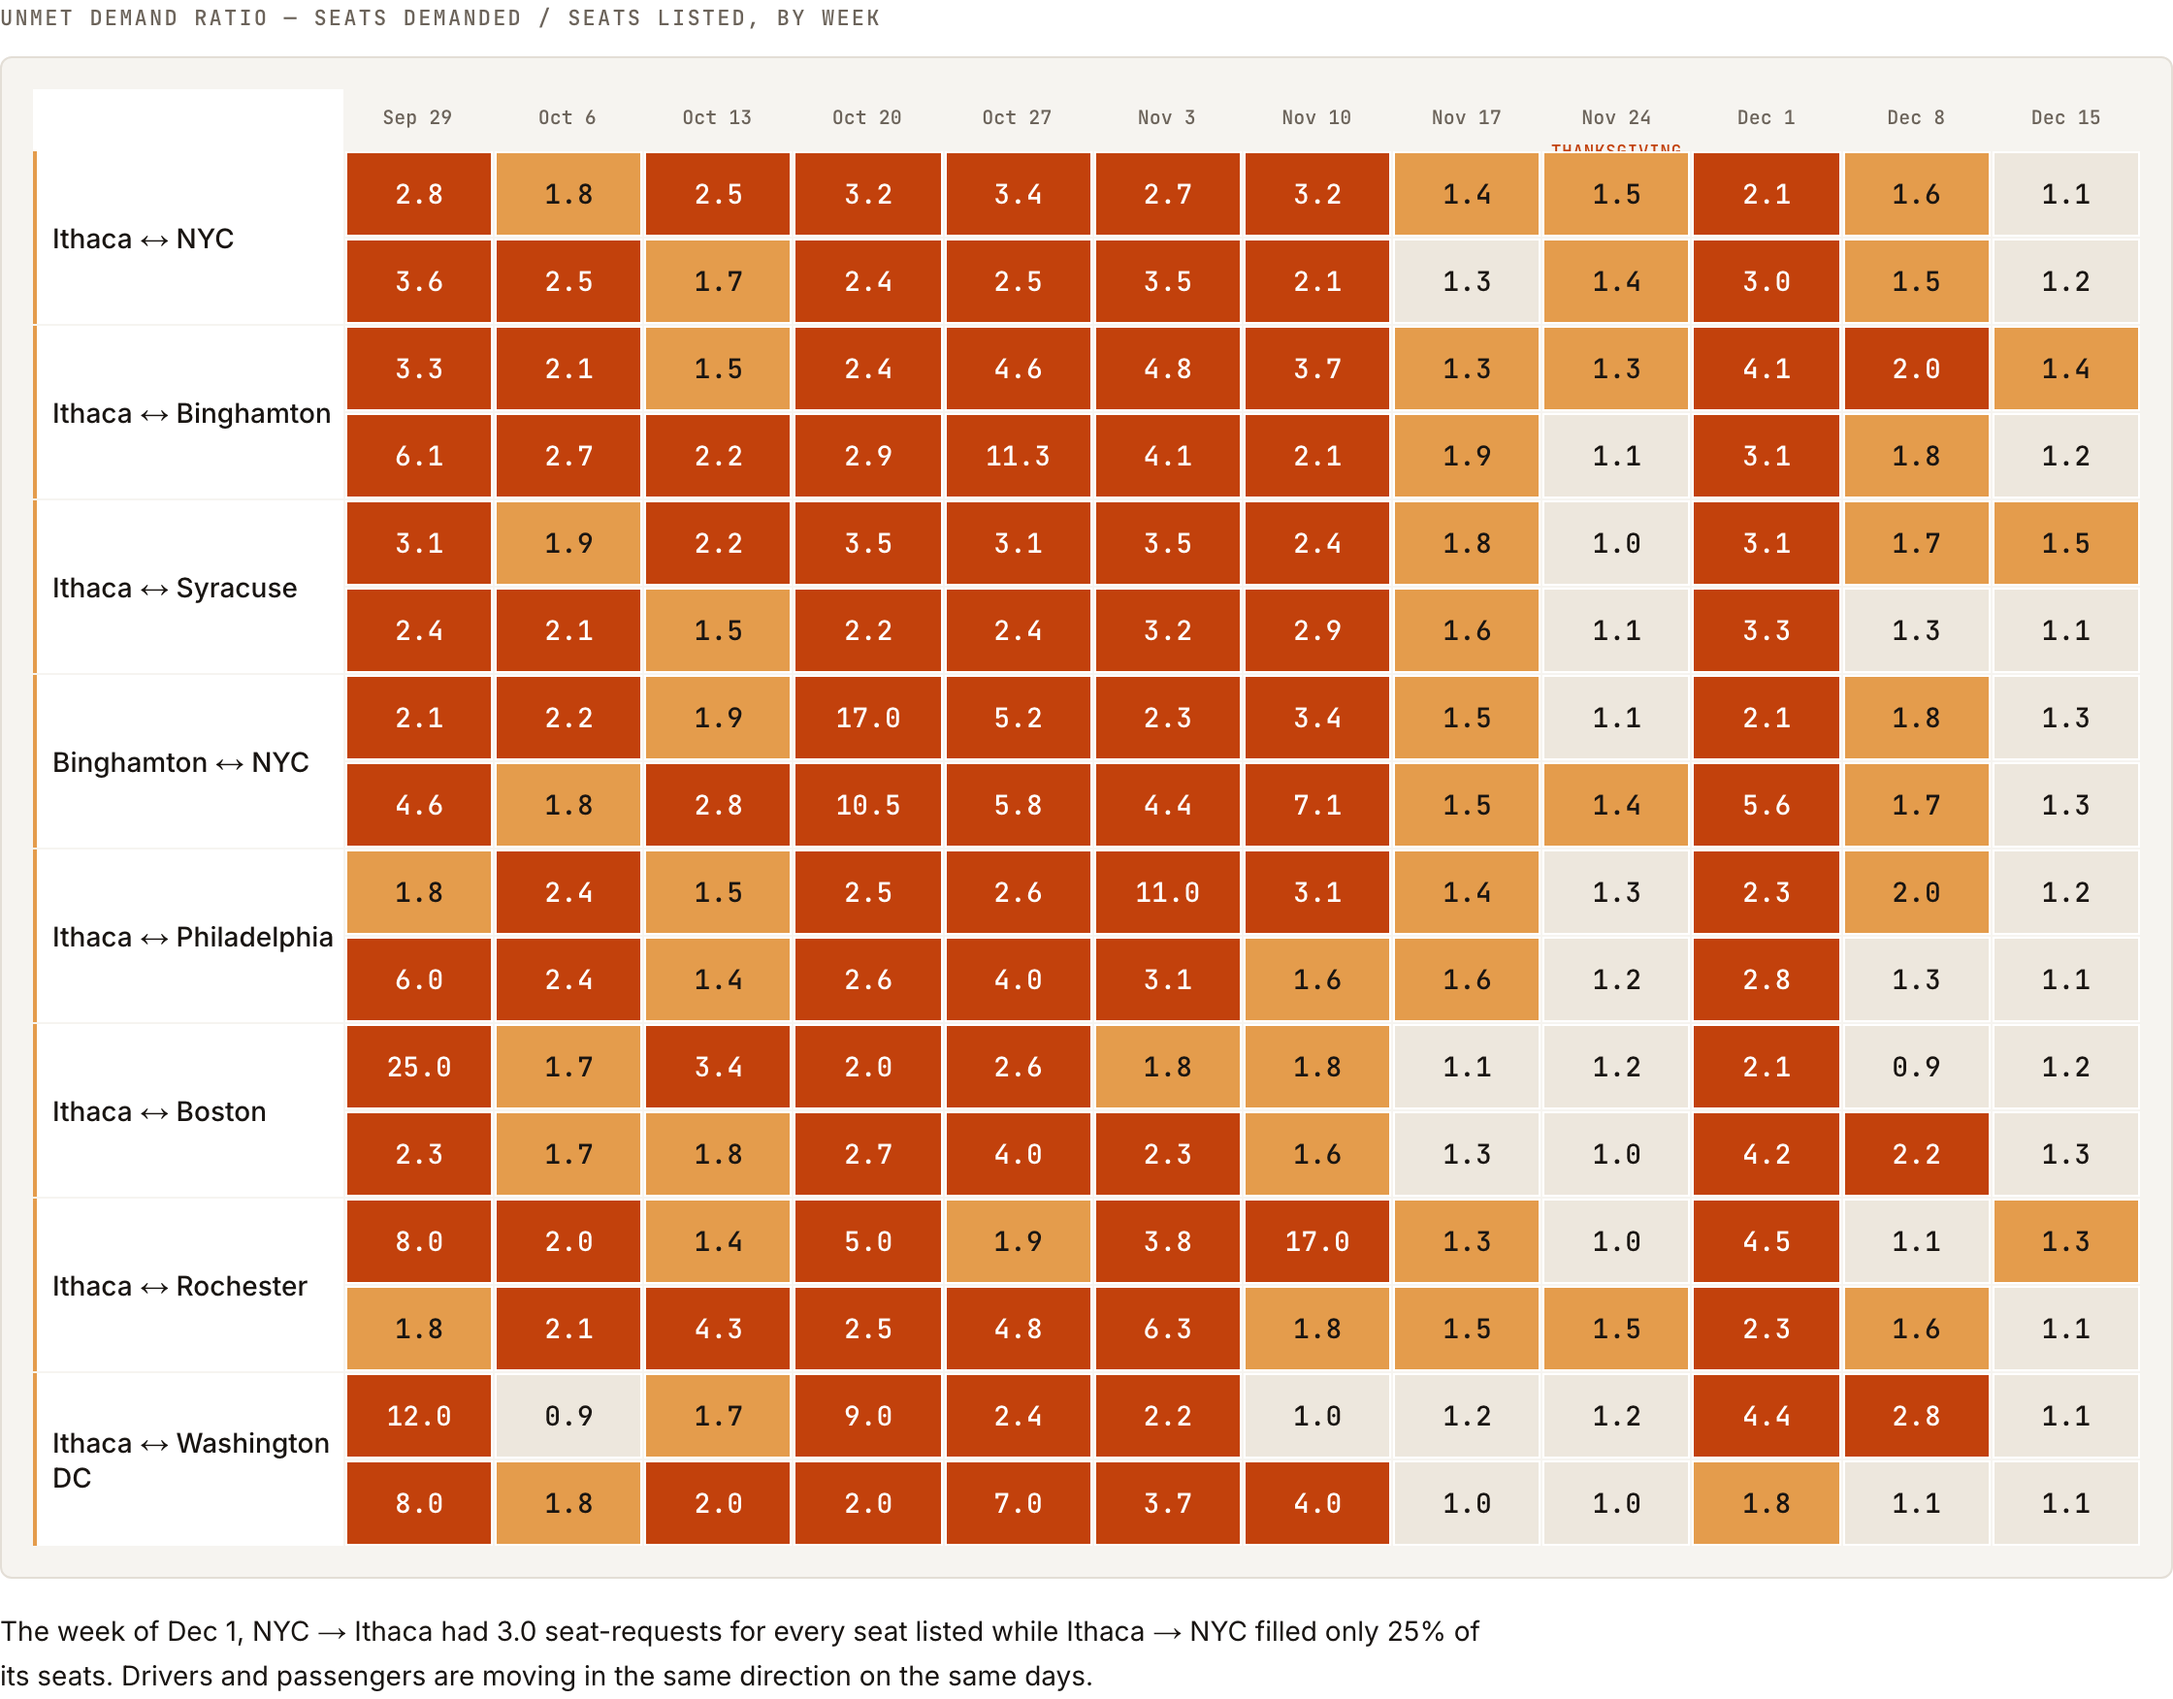
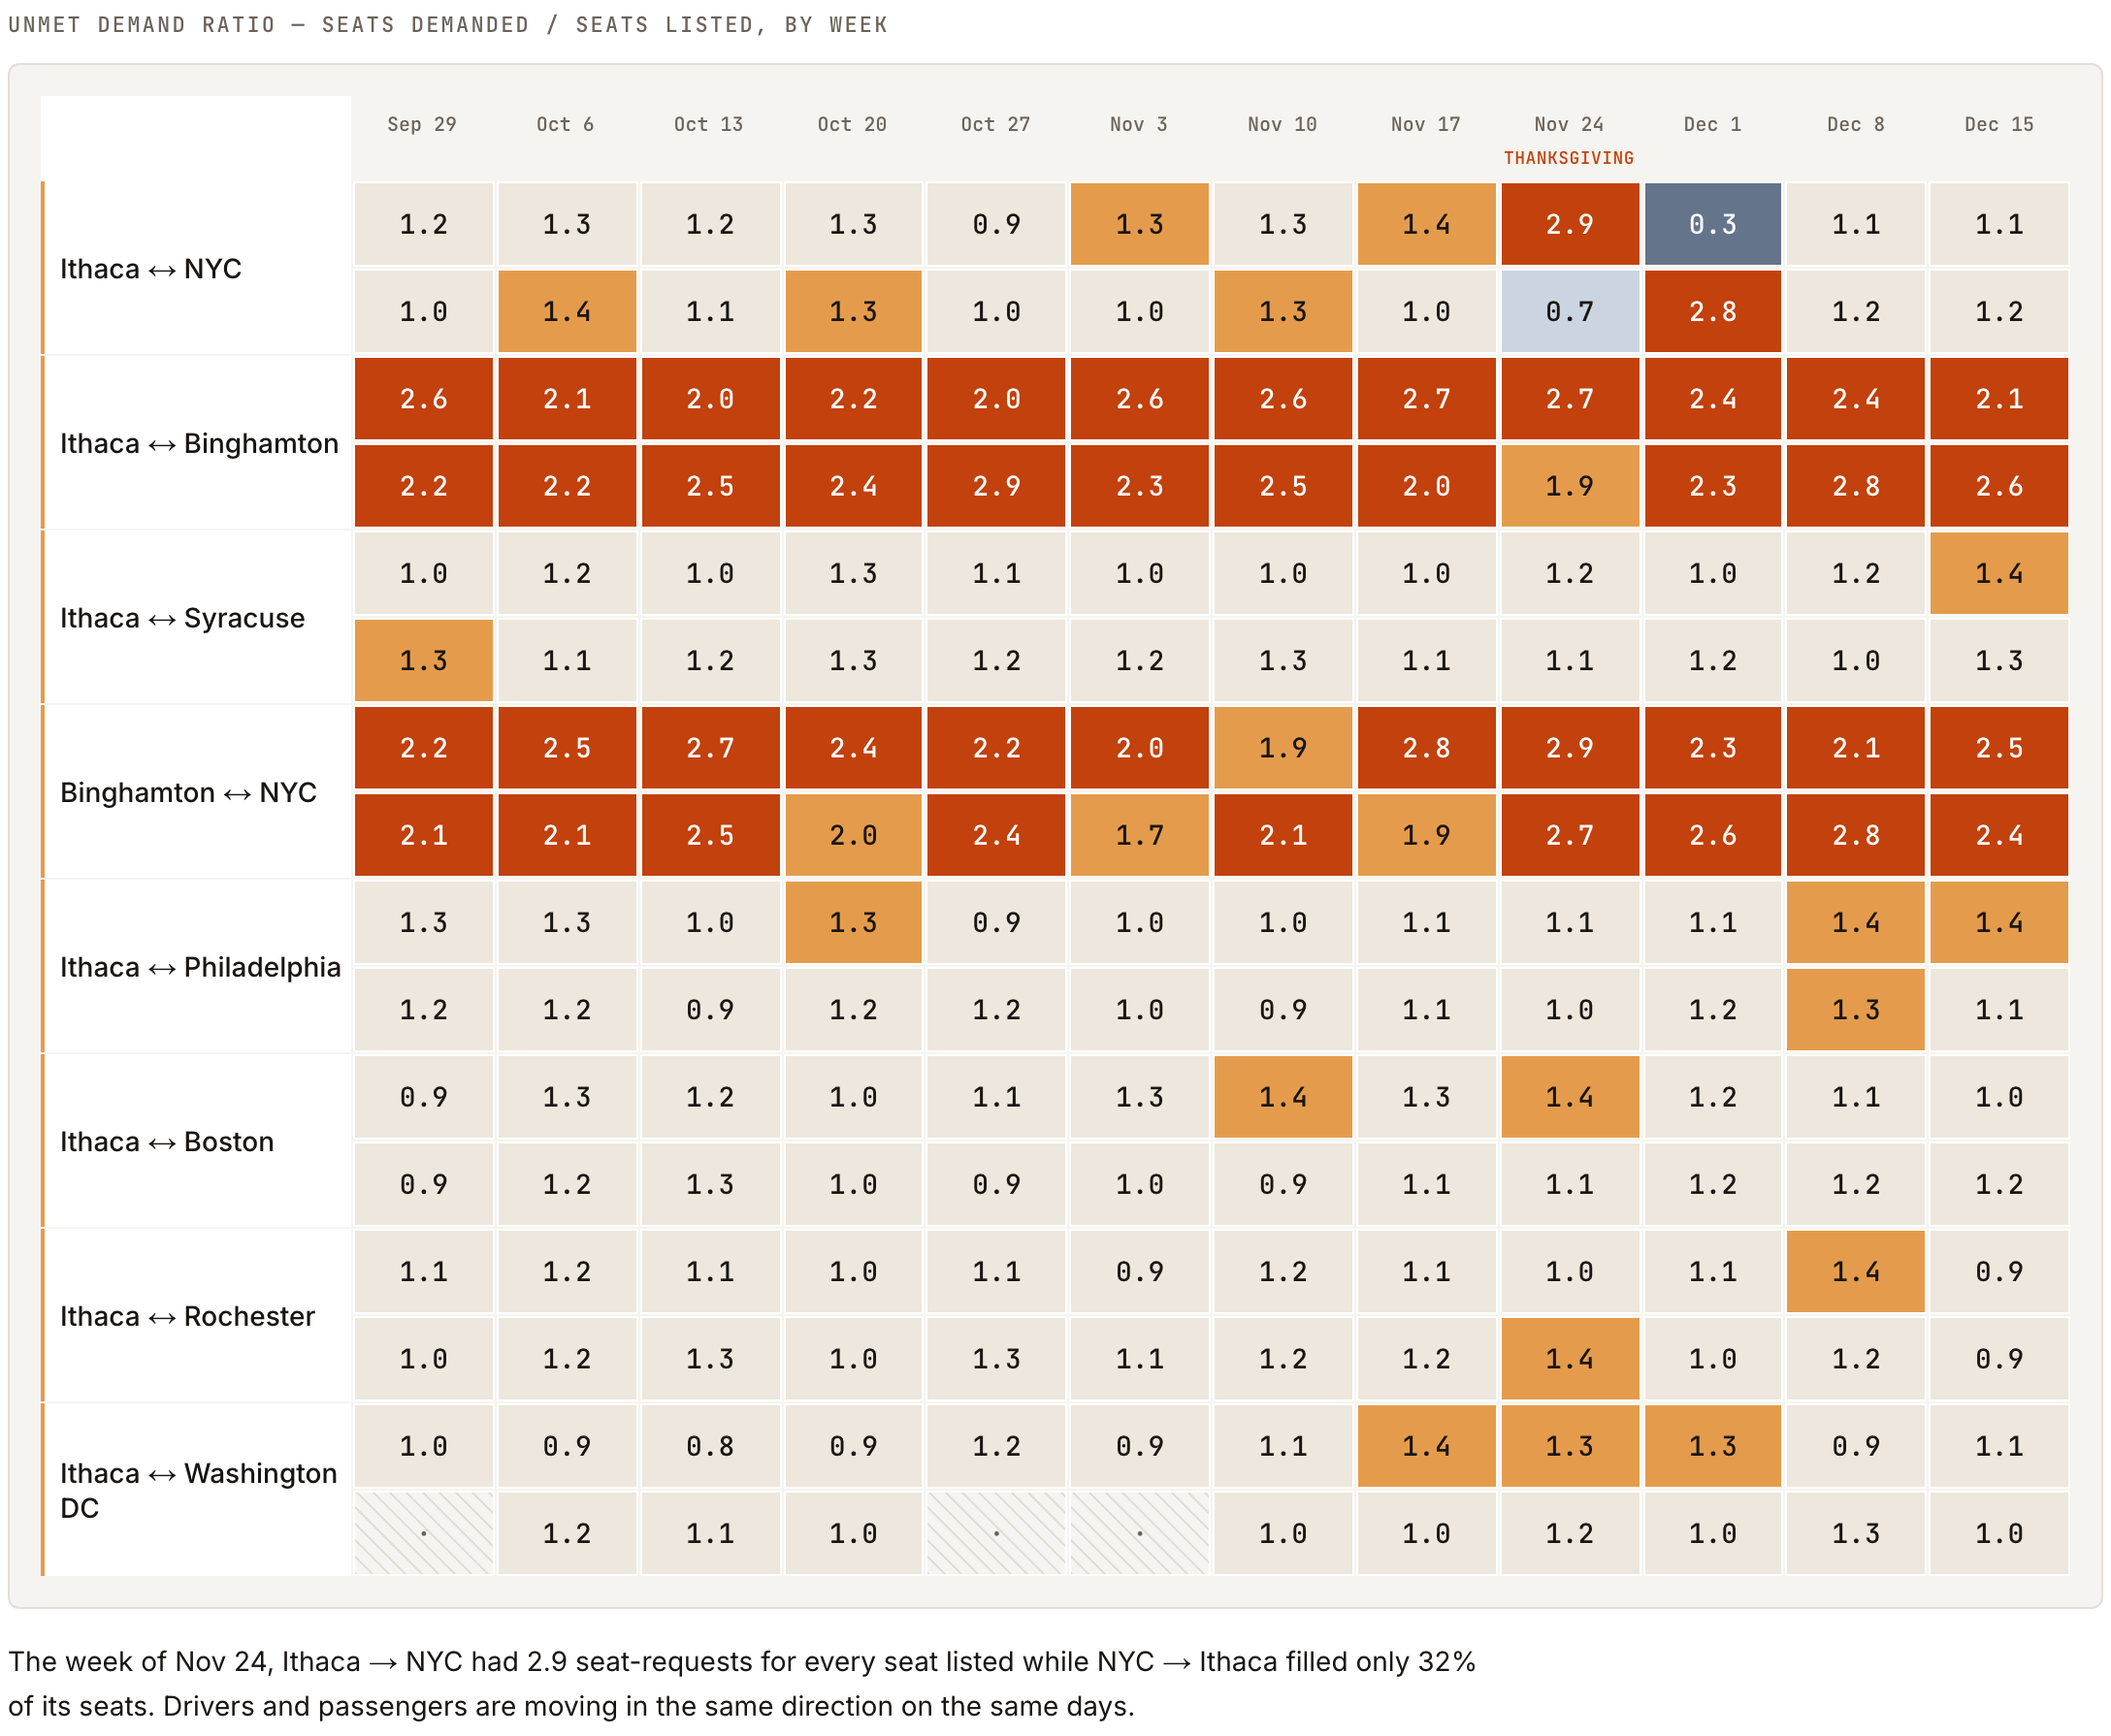
Update README heatmap screenshot to reflect denominator-guard fix
The embedded hero image predated the minimum-denominator guard and
still showed the old implausible outlier values (25.0, 17.0 x2, 12.0,
11.3, 11.0, 9.0, ...) from dividing by near-zero seats-listed on thin
corridors. Replaced with a fresh capture of the live heatmap, which now
tops out at 2.9 and shows hatched "insufficient data" cells on those
same thin corridors instead of a raw misleading ratio.

Also corrected the one specific number in the insight paragraph that
no longer matched: the low-fill-rate leg is at 32% on live data now,
not "a quarter." The 3-to-1 ratio claim still holds (live value 2.9).

diff --git a/README.md b/README.md
@@ -12,7 +12,7 @@ So this dashboard is built around the two events most analytics setups never add
 
 ## The insight this surfaced
 
-The heatmap pairs every corridor with its return leg on purpose. Alone, a hot Ithaca → NYC column in late November just looks like a busy corridor. Next to NYC → Ithaca the *same week* (above), it's a coordination failure: the students who need a ride out are the same people who'd otherwise drive the return leg, and almost nobody makes that trip on the day everyone needs it. One leg runs 3-to-1 oversubscribed; the other fills a quarter of its seats. Same people, wrong direction — so the fix is specific: recruit return-leg drivers for break weekends instead of waiting for supply to show up on its own.
+The heatmap pairs every corridor with its return leg on purpose. Alone, a hot Ithaca → NYC column in late November just looks like a busy corridor. Next to NYC → Ithaca the *same week* (above), it's a coordination failure: the students who need a ride out are the same people who'd otherwise drive the return leg, and almost nobody makes that trip on the day everyone needs it. One leg runs 3-to-1 oversubscribed; the other fills less than a third of its seats. Same people, wrong direction — so the fix is specific: recruit return-leg drivers for break weekends instead of waiting for supply to show up on its own.
 
 ## Event taxonomy
 
